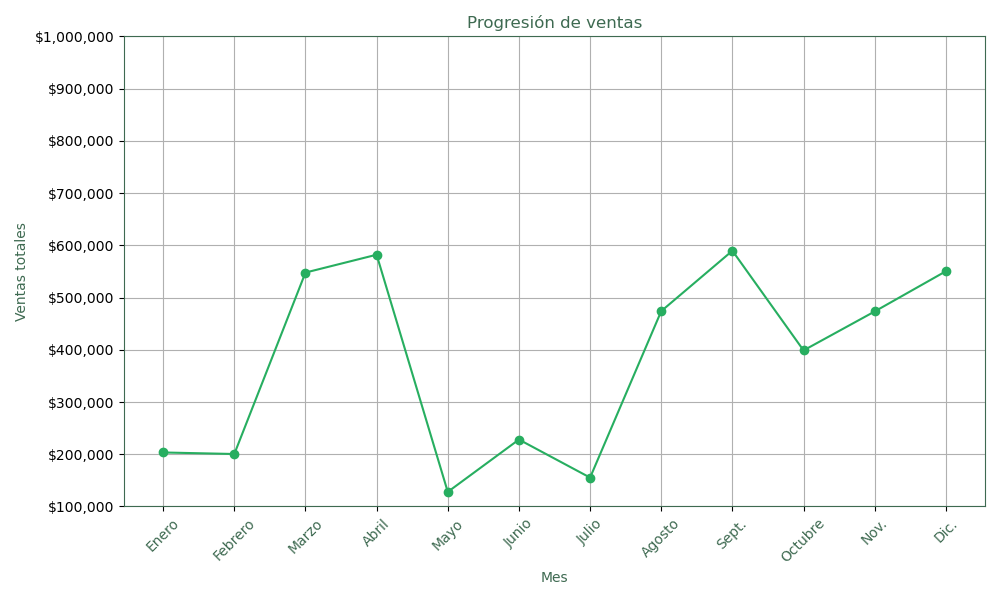
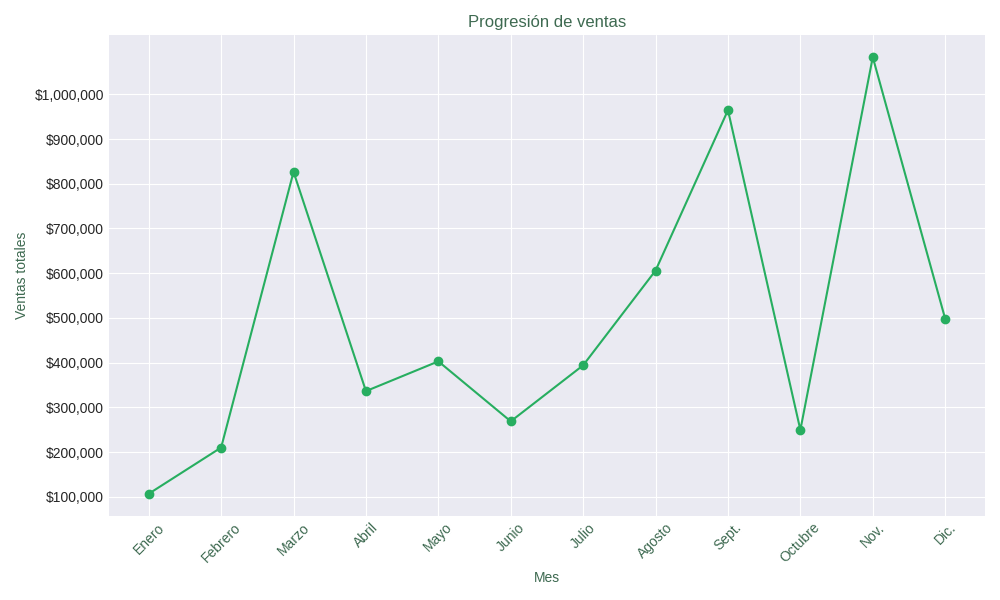
changes to color scheme, and graphs

diff --git a/frontend/src/components/analitics.jsx b/frontend/src/components/analitics.jsx
@@ -15,6 +15,7 @@ import {
   PieChart,
   Pie,
   Cell,
+  Label
 } from 'recharts';
 import axios from 'axios';
 import YearSelector from './availableYears';
@@ -34,6 +35,8 @@ const monthNames = {
   11: 'Noviembre',
   12: 'Diciembre'
 };
+
+const colors = ['#818282', '#50E5CD', '#50b3e5', '#FFCF44', '#387DA0', '#84C9EC', '#61BAE7', '#ffc416', '#E5CD50'];
 
 const Analitics = () => {
   const [data, setData] = useState([]);
@@ -116,14 +119,19 @@ const Analitics = () => {
     }
     return totals;
   }, {});
-
-  // Convert the calculated totals into an array of objects for the chart
+  const calculateLabelPosition = (cx, cy, radius, angle) => {
+    const radianAngle = (angle - 90) * (Math.PI / 180);
+    const x = cx + radius * Math.cos(radianAngle);
+    const y = cy + radius * Math.sin(radianAngle);
+    return { x, y };
+  };
   const chartData = Object.values(tipoVentaTotals);
+  const totalMontoFacturacion = oportunidad.reduce((total, entry) => total + entry.monto_facturacion, 0);
   return (
     <Row>
       <Col className="justify-content-md-center">
         <Card style={{ backgroundColor: "#ffffff", color: "#333", fontSize: 15, textAlign: "center", padding: "20px", borderRadius: '10px', boxShadow: '0 0 10px rgba(0, 0, 0, 0.1)', }}>
-          <Card.Title style={{ color: "#27ae60", fontSize: "24px", marginBottom: "10px" }}>
+          <Card.Title style={{ color: "#50b3e5", fontSize: "24px", marginBottom: "10px" }}>
             Analitics
           </Card.Title>
           <Card.Subtitle>
@@ -173,13 +181,13 @@ const Analitics = () => {
                             left: 20,
                           }}
                         >
-                          <CartesianGrid stroke="#3E6A51" />
-                          <XAxis dataKey="total_tipo_venta" stroke="#3E6A51" />
+                          <CartesianGrid stroke="#50b3e5" />
+                          <XAxis dataKey="total_tipo_venta" stroke="#50b3e5" />
                           <YAxis scale={'sqrt'} tickCount={15} tickFormatter={(value) => `$${value.toLocaleString()}`} />
                           <Tooltip />
                           <Legend />
-                          <Bar dataKey="utilidad_total" barSize={30} fill="#2986cc" />
-                          <Bar dataKey="monto_facturacion_total" barSize={30} fill="#27ae60" />
+                          <Bar dataKey="utilidad_total" barSize={30} fill="#ffc416" />
+                          <Bar dataKey="monto_facturacion_total" barSize={30} fill="#50b3e5" />
                         </ComposedChart>
                       </ResponsiveContainer>
                     </div>
@@ -205,13 +213,13 @@ const Analitics = () => {
                             left: 30,
                           }}
                         >
-                          <CartesianGrid stroke="#3E6A51" />
-                          <XAxis dataKey="total_tipo_venta" stroke="#3E6A51" />
+                          <CartesianGrid stroke="#50b3e5" />
+                          <XAxis dataKey="total_tipo_venta" stroke="#50b3e5" />
                           <YAxis domain={[0, 200000]} scale={'sqrt'} tickCount={15} tickFormatter={(value) => `$${value.toLocaleString()}`} />
                           <Tooltip />
                           <Legend />
-                          <Bar dataKey="utilidad_total" barSize={30} fill="#2986cc" />
-                          <Bar dataKey="monto_facturacion_total" barSize={30} fill="#27ae60" />
+                          <Bar dataKey="utilidad_total" barSize={30} fill="#ffc416" />
+                          <Bar dataKey="monto_facturacion_total" barSize={30} fill="#50b3e5" />
                         </ComposedChart>
                       </ResponsiveContainer>
                     </div>
@@ -238,12 +246,12 @@ const Analitics = () => {
                           }}
                         >
                           {console.log(oportunidad)}
-                          <CartesianGrid stroke="#3E6A51" />
-                          <XAxis dataKey="producto" stroke="#3E6A51" />
+                          <CartesianGrid stroke="#50b3e5" />
+                          <XAxis dataKey="producto" stroke="#50b3e5" />
                           <YAxis domain={[0, 200000]} scale={'sqrt'} tickCount={15} tickFormatter={(value) => `$${value.toLocaleString()}`} />
                           <Tooltip />
                           <Legend />
-                          <Bar dataKey="monto_facturacion" barSize={30} fill="#27ae60" />
+                          <Bar dataKey="monto_facturacion" barSize={30} fill="#50b3e5" />
                         </ComposedChart>
                       </ResponsiveContainer>
                     </div>
@@ -256,17 +264,17 @@ const Analitics = () => {
                     <h4>Grafica Anual - PIE - Producto Oportunidad</h4>
                   </Card.Title>
                   <Card.Text>
-                    <div style={{ width: '100%', height: 600 }}>
+                    <div style={{ width: '100%', height: 800 }}>
                       <ResponsiveContainer>
                         <PieChart>
                           <Pie
                             dataKey="monto_facturacion"
                             isAnimationActive={true}
                             data={oportunidad}
-                            cx="30%"
-                            cy="50%"
-                            outerRadius={200}
-                            fill="#27ae60"
+                            cx="40%"
+                            cy="40%"
+                            outerRadius={300}
+                            labelLine={false}
                             label={({
                               cx,
                               cy,
@@ -281,20 +289,28 @@ const Analitics = () => {
                               const x = cx + radius * Math.cos(-midAngle * RADIAN);
                               const y = cy + radius * Math.sin(-midAngle * RADIAN);
 
+                              const percent = ((value / oportunidad.reduce((sum, entry) => sum + entry.monto_facturacion, 0)) * 100).toFixed(2);
+
                               return (
                                 <text
                                   x={x}
                                   y={y}
-                                  fill="#3E6A51"
+                                  fill="#818282"
                                   textAnchor={x > cx ? 'start' : 'end'}
                                   dominantBaseline="central"
                                 >
-                                  {oportunidad[index].producto}
+                                  {`${oportunidad[index].producto} (${percent}%)`}
                                 </text>
                               );
                             }}
+                          >
+                            {oportunidad.map((entry, index) => (
+                              <Cell key={`cell-${index}`} fill={colors[index % colors.length]} />
+                            ))}
+                          </Pie>
+                          <Tooltip
+                            formatter={(value, name, entry) => [`${entry.payload.producto}`, `$${value.toLocaleString()}`]}
                           />
-                          <Tooltip />
                         </PieChart>
                       </ResponsiveContainer>
                     </div>
@@ -314,8 +330,8 @@ const Analitics = () => {
               </Card.Title>
               <Card.Text>
                 <img
-                  src={`http://localhost:8000/get_anual_sales_line_graph_image`}
-                  alt="Anual Sales Graph"
+                  src={`http://localhost:8000/get_lineal_regresion_image`}
+                  alt="Lineal Regresion"
                   style={{ width: '90%' }}
                 />
               </Card.Text>

diff --git a/frontend/src/components/dashboard.jsx b/frontend/src/components/dashboard.jsx
@@ -144,12 +144,12 @@ const Dashboard = () => {
     };
 
     return (
-        <div style={{ backgroundColor: "#3E6A51", minHeight: "100vh", padding: "20px" }}>
+        <div style={{ backgroundColor: "#50b3e5", minHeight: "100vh", padding: "20px" }}>
             <Container>
                 <Row className="justify-content-md-center">
                     <Col>
                         <Card style={{ backgroundColor: "#ffffff", color: "#333", fontSize: 15, textAlign: "center", padding: "20px", borderRadius: '10px', boxShadow: '0 0 10px rgba(0, 0, 0, 0.1)', }}>
-                            <Card.Title style={{ color: "#27ae60", fontSize: "24px", marginBottom: "10px" }}>
+                            <Card.Title style={{ color: "#50b3e5", fontSize: "24px", marginBottom: "10px" }}>
                                 <Stack direction="horizontal" gap={3} style={{ justifyContent: "center" }}>
                                     <Image src="https://app.camiapp.net/assets/Tuerca-eb3d566b.svg" width={"15%"} rounded />
                                     <Image src="https://app.camiapp.net/assets/Logo-8a7d2727.svg" width={"25%"} rounded />
@@ -157,7 +157,7 @@ const Dashboard = () => {
                                 <br />
                                 Camilitics
                             </Card.Title>
-                            <Card.Subtitle style={{ color: "#27ae60", fontSize: "16px", marginBottom: "20px" }}>
+                            <Card.Subtitle style={{ color: "#50b3e5", fontSize: "16px", marginBottom: "20px" }}>
                                 Upload your file, and download the processed data
                             </Card.Subtitle>
                             <Card.Text>
@@ -197,13 +197,13 @@ const Dashboard = () => {
                     <Col>
                         <Nav variant="tabs" defaultActiveKey={'file'} onSelect={handleTabSelect}>
                             <Nav.Item>
-                                <Nav.Link eventKey={'file'} style={{ color: ((nav == 'default') ? '#1F3528' : '#B1C3B9'), }}>Visualizar Archivo Procesado</Nav.Link>
+                                <Nav.Link eventKey={'file'} style={{ color: ((nav == 'default') ? '#387DA0' : '#818282'), }}>Visualizar Archivo Procesado</Nav.Link>
                             </Nav.Item>
                             <Nav.Item>
-                                <Nav.Link eventKey={'linkHistorico'} style={{ color: ((nav == 'historico') ? '#1F3528' : '#B1C3B9'), }}>Historico</Nav.Link>
+                                <Nav.Link eventKey={'linkHistorico'} style={{ color: ((nav == 'historico') ? '#387DA0' : '#818282'), }}>Historico</Nav.Link>
                             </Nav.Item>
                             <Nav.Item>
-                                <Nav.Link eventKey={'linkAnalitics'} style={{ color: ((nav == 'anal') ? '#1F3528' : '#B1C3B9'), }}>Analytics</Nav.Link>
+                                <Nav.Link eventKey={'linkAnalitics'} style={{ color: ((nav == 'anal') ? '#387DA0' : '#818282'), }}>Analytics</Nav.Link>
                             </Nav.Item>
                         </Nav>
                     </Col>
@@ -227,7 +227,7 @@ const Dashboard = () => {
                                         <thead>
                                             <tr>
                                                 {processedData[0].map((header, index) => (
-                                                    <th key={index}>{header}</th>
+                                                    <th key={index} style={{color: '#50b3e5'}}>{header}</th>
                                                 ))}
                                             </tr>
                                         </thead>
@@ -235,7 +235,7 @@ const Dashboard = () => {
                                             {processedData.slice(1).map((row, rowIndex) => (
                                                 <tr key={rowIndex}>
                                                     {row.map((cell, cellIndex) => (
-                                                        <td key={cellIndex} style={{ color: '#B1C3B9' }}>{cell}</td>
+                                                        <td key={cellIndex} style={{ color: '#387DA0' }}>{cell}</td>
                                                     ))}
                                                 </tr>
                                             ))}

diff --git a/backend/src/app.py b/backend/src/app.py
@@ -379,7 +379,6 @@ def anual_sales_line_graph():
     # data = response.data
 
     df = pd.DataFrame(data)
-    print(df)
     
     monthly_totals = df['monto_facturacion'].tolist()
     months = ['Enero', 'Febrero', 'Marzo', 'Abril', 'Mayo', 'Junio', 'Julio', 'Agosto', 'Sept.', 'Octubre', 'Nov.', 'Dic.']
@@ -420,12 +419,23 @@ def anual_sales_line_graph():
 #     except Exception as e:
 #         return JSONResponse(content={"error": str(e)}, status_code=500)
 
+@app.get("/get_lineal_regresion_image")
+async def get_lineal_regresion_image():
+    image_path = linear_regression()
+    # Check if the image file exists
+    if os.path.exists(image_path):
+        return FileResponse(image_path, media_type="image/png")
+    else:
+        return JSONResponse(content={"error": "Image not found"}, status_code=404)
 
 def linear_regression():
+    highest_id_response = supabase.from_('data').select('upload').order('upload', desc=True).limit(1).execute()
+    highest_id = highest_id_response.data[0]['upload']
     response1 = supabase.from_('data').select('monto_facturacion').eq('upload', highest_id).eq('total_tipo_venta', '– TOTAL DEL MES – ').limit(1000).execute() 
     data = response1.data
     
-    response2 = supabase.from_('data').select('monto_facturacion').eq('upload', 18).eq('total_tipo_venta', '– TOTAL DEL MES – ').limit(1000).execute()
+    print('hello')
+    response2 = supabase.from_('data').select('monto_facturacion').eq('upload', 35).eq('total_tipo_venta', '– TOTAL DEL MES – ').limit(1000).execute()
     data2 = response2.data
     df = pd.DataFrame(data)
     df2 = pd.DataFrame(data2)
@@ -475,10 +485,9 @@ def linear_regression():
 
     plt.legend(fontsize=12)
     plt.tight_layout()
-
-    plt.savefig('linear_regression_sales.png', dpi=300)
-
-    plt.show()
+    image_path = "linear_regression_sales.png"
+    plt.savefig(image_path)
+    return image_path
 
 @app.get("/get_producto_oportunidad")
 async def get_producto_oportunidad():
